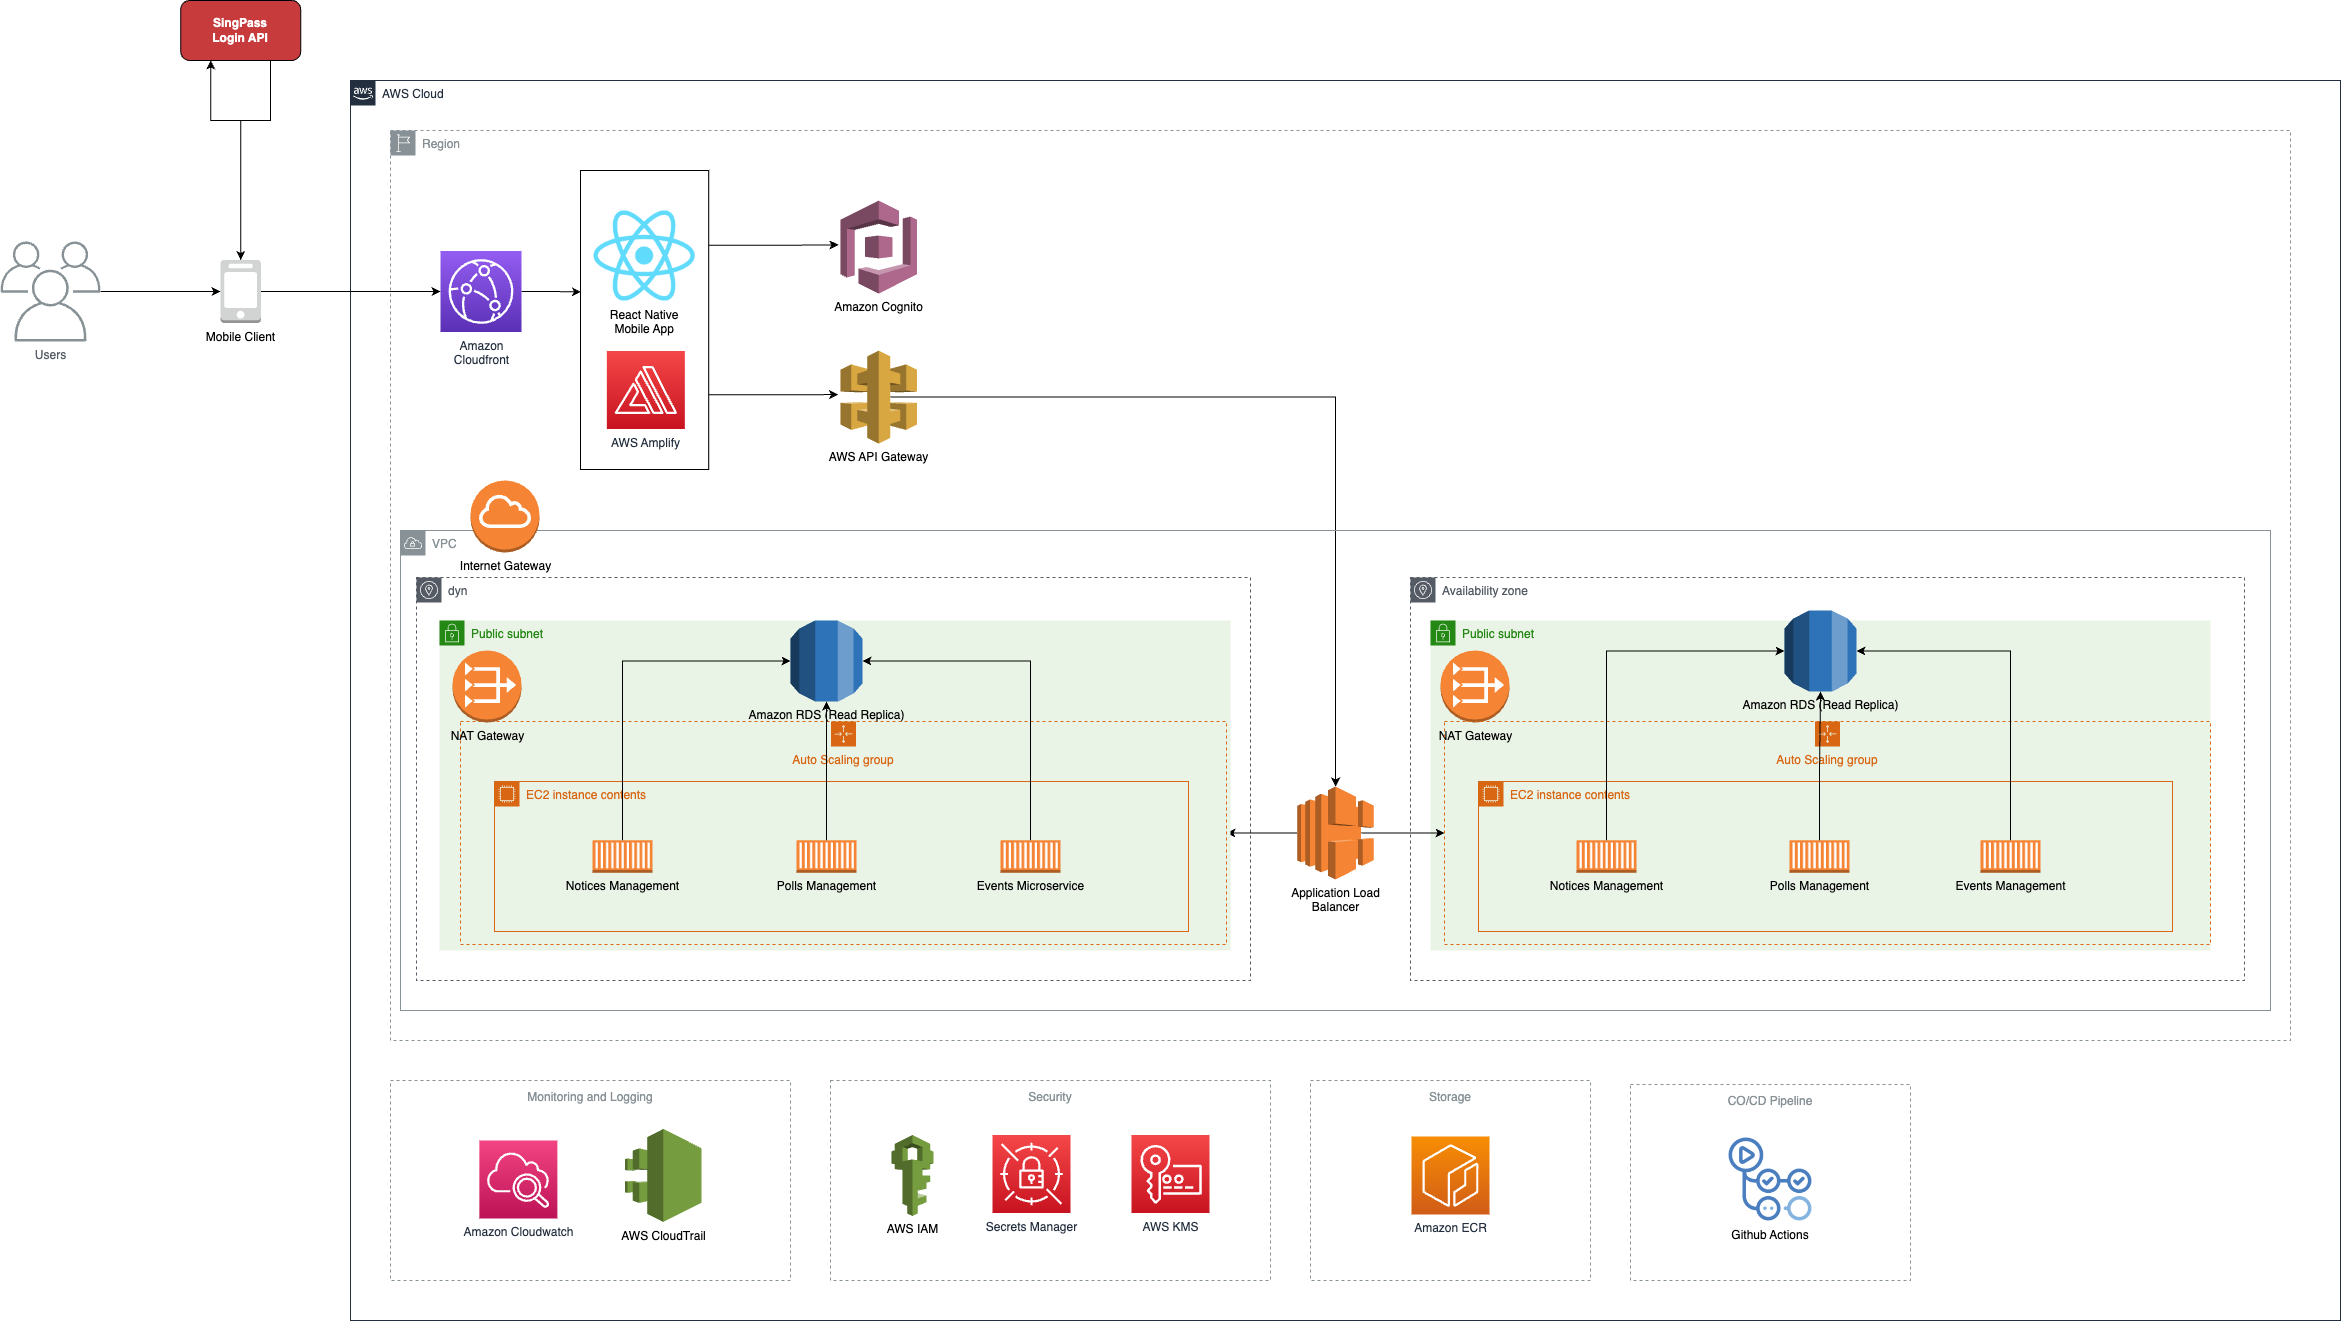
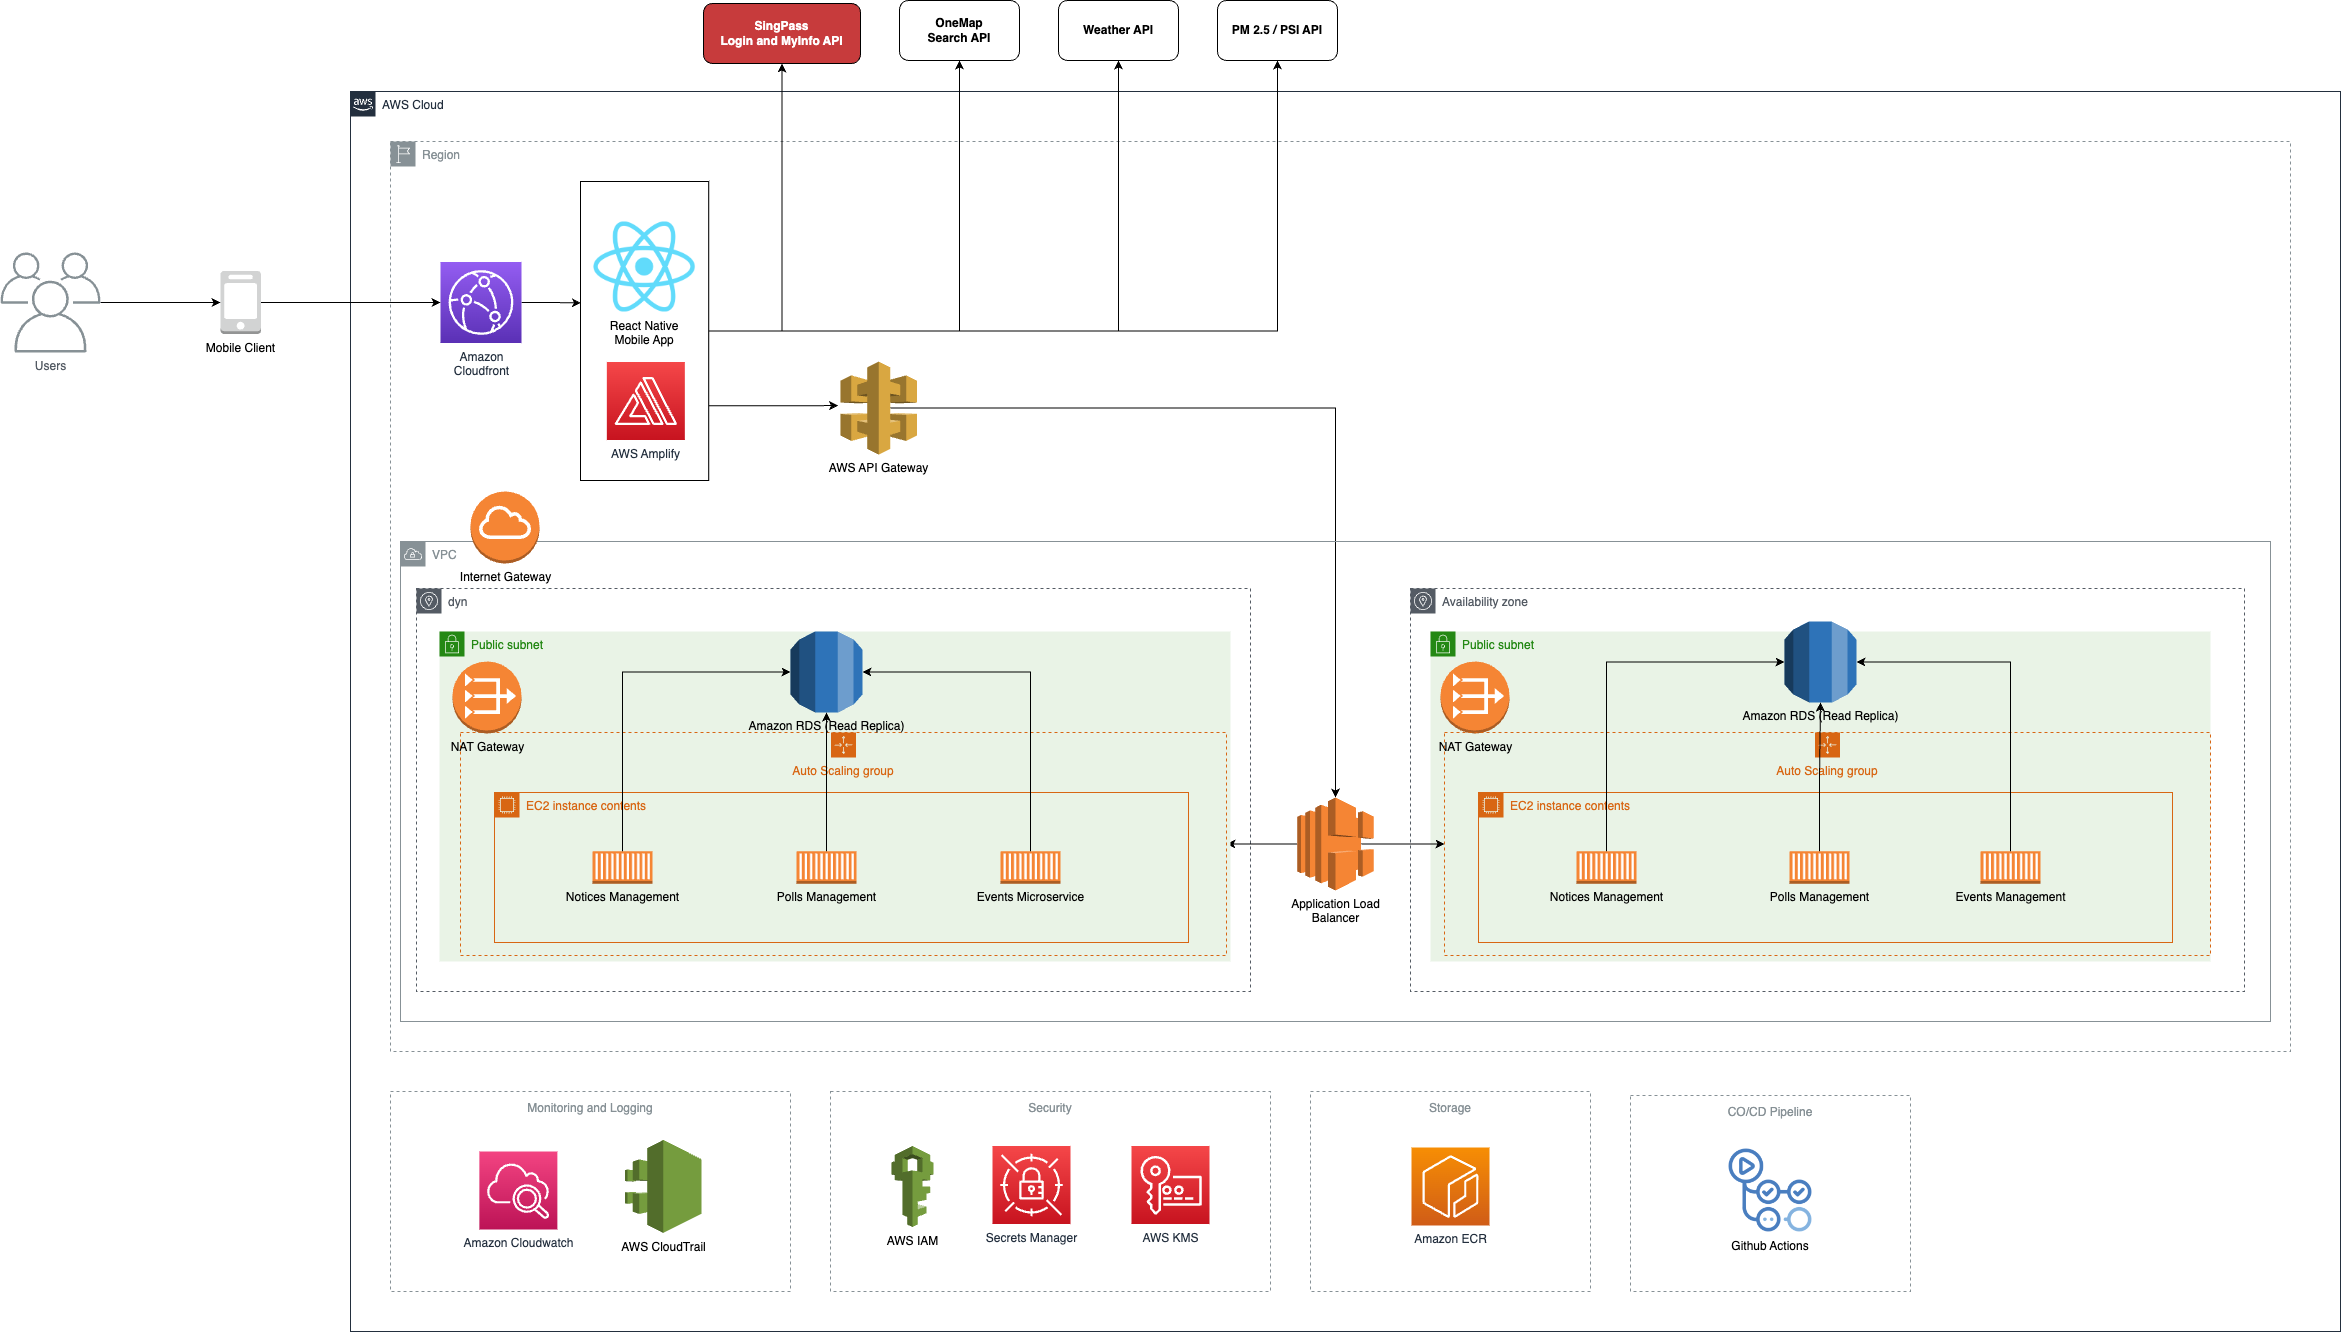
feat: update architecture diagram and add description for architecture

diff --git a/README.md b/README.md
@@ -36,6 +36,17 @@ The proposed solution is an app that allows users to login with SingPass (via Lo
 
 ![City Connect System Architecture](CityConnect.png)
 
+| **Component**                                                     | **Description**                                                                                                                                                                                                                                                                                                                                                                                       |
+| ----------------------------------------------------------------- | ----------------------------------------------------------------------------------------------------------------------------------------------------------------------------------------------------------------------------------------------------------------------------------------------------------------------------------------------------------------------------------------------------- |
+| Elastic Container Registry (ECR)                                  | Elastic Container Registry (ECR) is a fully managed Docker container registry, to store and manage my application's container images securely. This allows for easy deployment to ECS cluster.                                                                                                                                                                                                        |
+| Amazon CloudFront                                                 | CloudFront as a content delivery network (CDN) to enhance the performance of the application. It helps deliver both static and dynamic content with low latency and high transfer speeds.                                                                                                                                                                                                             |
+| SingPass Login and MyInfo API                                     | Utilising the SingPass Login and MyInfo API integration, users can seamlessly authenticate their identity and securely retrieve essential residential information, enabling the automatic population of accurate and up-to-date details for a streamlined and personalised experience.                                                                                                                |
+| AWS API Gateway                                                   | Acts as the entry point for client requests, handling authentication, authorization, and request routing effectively.                                                                                                                                                                                                                                                                                 |
+| Application Load Balancer (ALB) and Auto Scaling Groups (ASG)     | Application Load Balancer (ALB) evenly distributes incoming traffic across multiple instances of the application running in an Amazon Elastic Container Service (ECS) cluster. It works in conjunction with auto scaling groups to automatically adjust the number of container instances based on demand. The combined component will deliver high availability and scalability for the application. |
+| AWS CloudWatch and AWS CloudTrail                                 | For monitoring and auditing purposes. CloudWatch helps to gain insights into the application's performance, health, and resource utilisation, while CloudTrail provides a detailed record of activities and actions within the AWS account                                                                                                                                                            |
+| AWS IAM, AWS Key Management Service (KMS) and AWS Secrets Manager | IAM enables me to control access to my AWS resources, while KMS provides secure key storage and encryption services. Secrets Manager enables me to securely store and manage sensitive information like database credentials and API keys.                                                                                                                                                            |
+| GitHub Actions                                                    | A Continuous Integration/Continuous Deployment (CI/CD) platform. Helps to streamlines the development and deployment cycles, making it easier to maintain and release updates to the application. For example, a pipeline to generate a new image, upload to the Elastic Container Registry (ECR) and deploy the new container automatically upon merging to the master/main branch.                  |
+
 ### Wireframe
 
 #### Links
